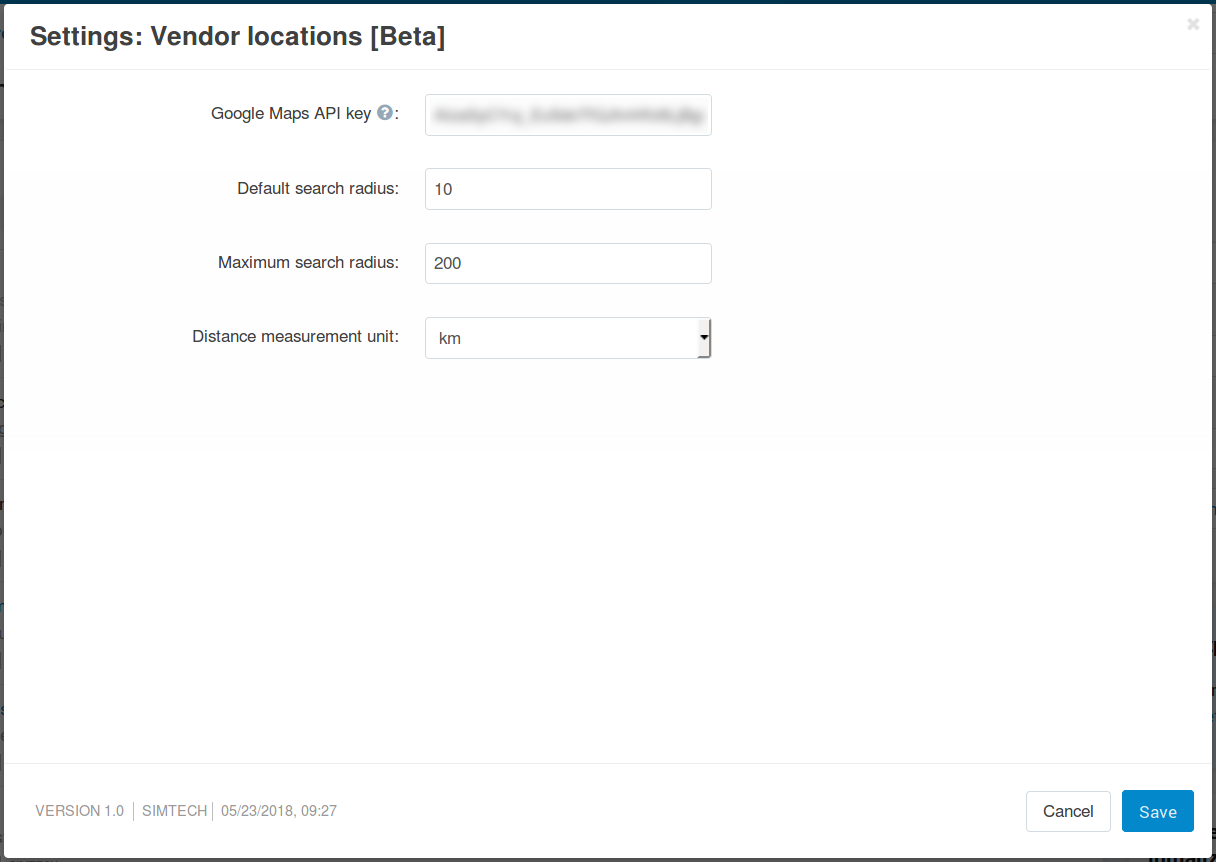
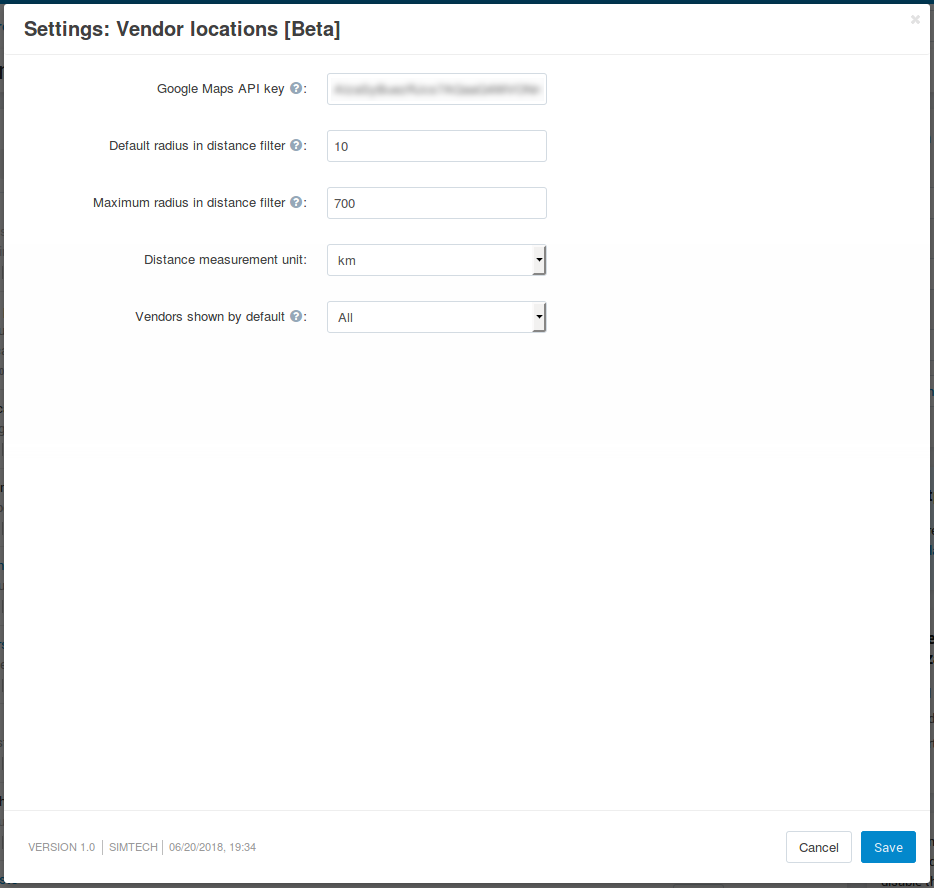
En: User Guide: Vendor Locations: Info updated.

diff --git a/en/user_guide/addons/vendor_locations/configure.rst b/en/user_guide/addons/vendor_locations/configure.rst
@@ -26,15 +26,27 @@ The add-on has the following settings:
 
 * **Google Maps API key**—Google Maps calculate distance and show the locations of vendors. That's why you need to enter the Google Maps API key; get it by following `Google instructions <https://developers.google.com/maps/documentation/javascript/get-api-key>`_.
 
-* **Default search radius**—the search radius that a product filter by distance will have by default.
+* **Default radius in distance filter**—the search radius that a product filter by distance will have by default.
 
-* **Maximum search radius**—the maximum allowed search radius that a product filter by distance can have.
+* **Maximum radius in distance filter**—the maximum allowed search radius that a product filter by distance can have.
+
+  .. note:: 
+
+      The product filter that allows customers to search for products within a certain distance if they enter their location :ref:`needs to be added manually <mve-product-filter-by-distance>`. Otherwise the two settings above won't have any effect.
 
 * **Distance measurement unit**—the measurement unit that will be used in product filters by distance and in the information about nearby vendors.
 
-  .. image:: img/vendor_locations_addon_settings.png
-      :align: center
-      :alt: The settings of the "Vendor locations" add-on.
+* **Vendors shown by default**—determines what vendors will be shown on the vendor list page (``dispatch=companies.catalog``) and on the map displayed on that page by default:
+
+  * *All*
+
+  * *From customer's city*
+
+  * *From customer's country*
+
+.. image:: img/vendor_locations_addon_settings.png
+    :align: center
+    :alt: The settings of the "Vendor locations" add-on.
 
 Once you've configured the settings, click **Save** to save your changes.
 
@@ -87,6 +99,8 @@ A :doc:`block </user_guide/look_and_feel/layouts/blocks/index>` is a part of a p
    .. image:: img/nearby_vendors_and_map.png
        :align: center
        :alt: The 4 blocks of the "Vendor Locations" add-on on one page.
+
+.. _mve-product-filter-by-distance:
 
 ------------------------------
 Add Product Filter by Distance
